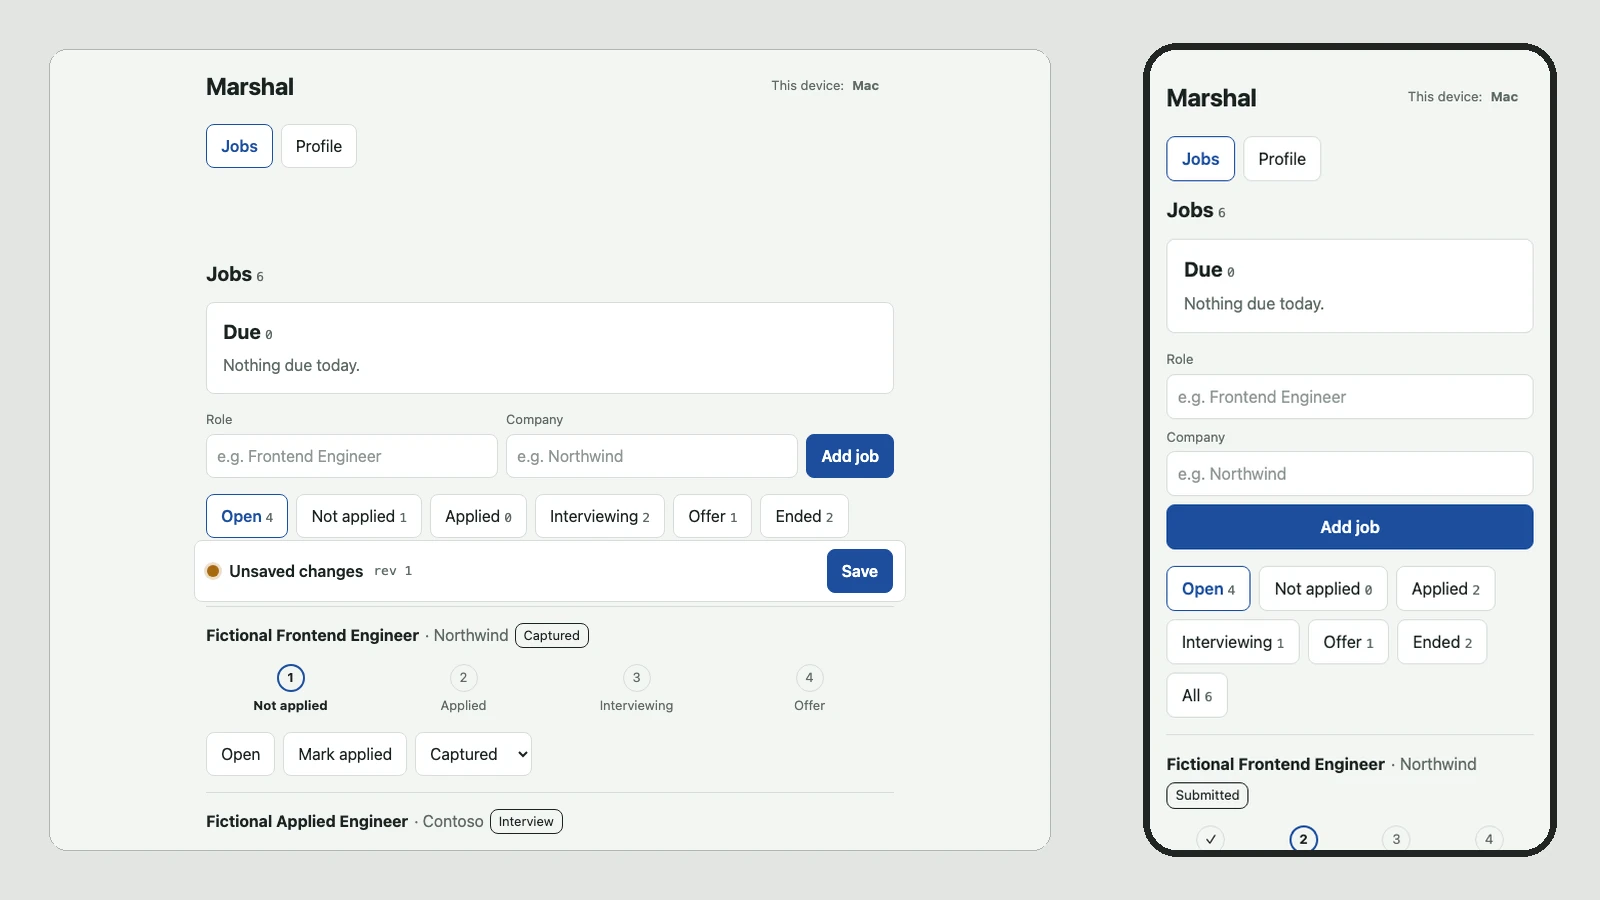
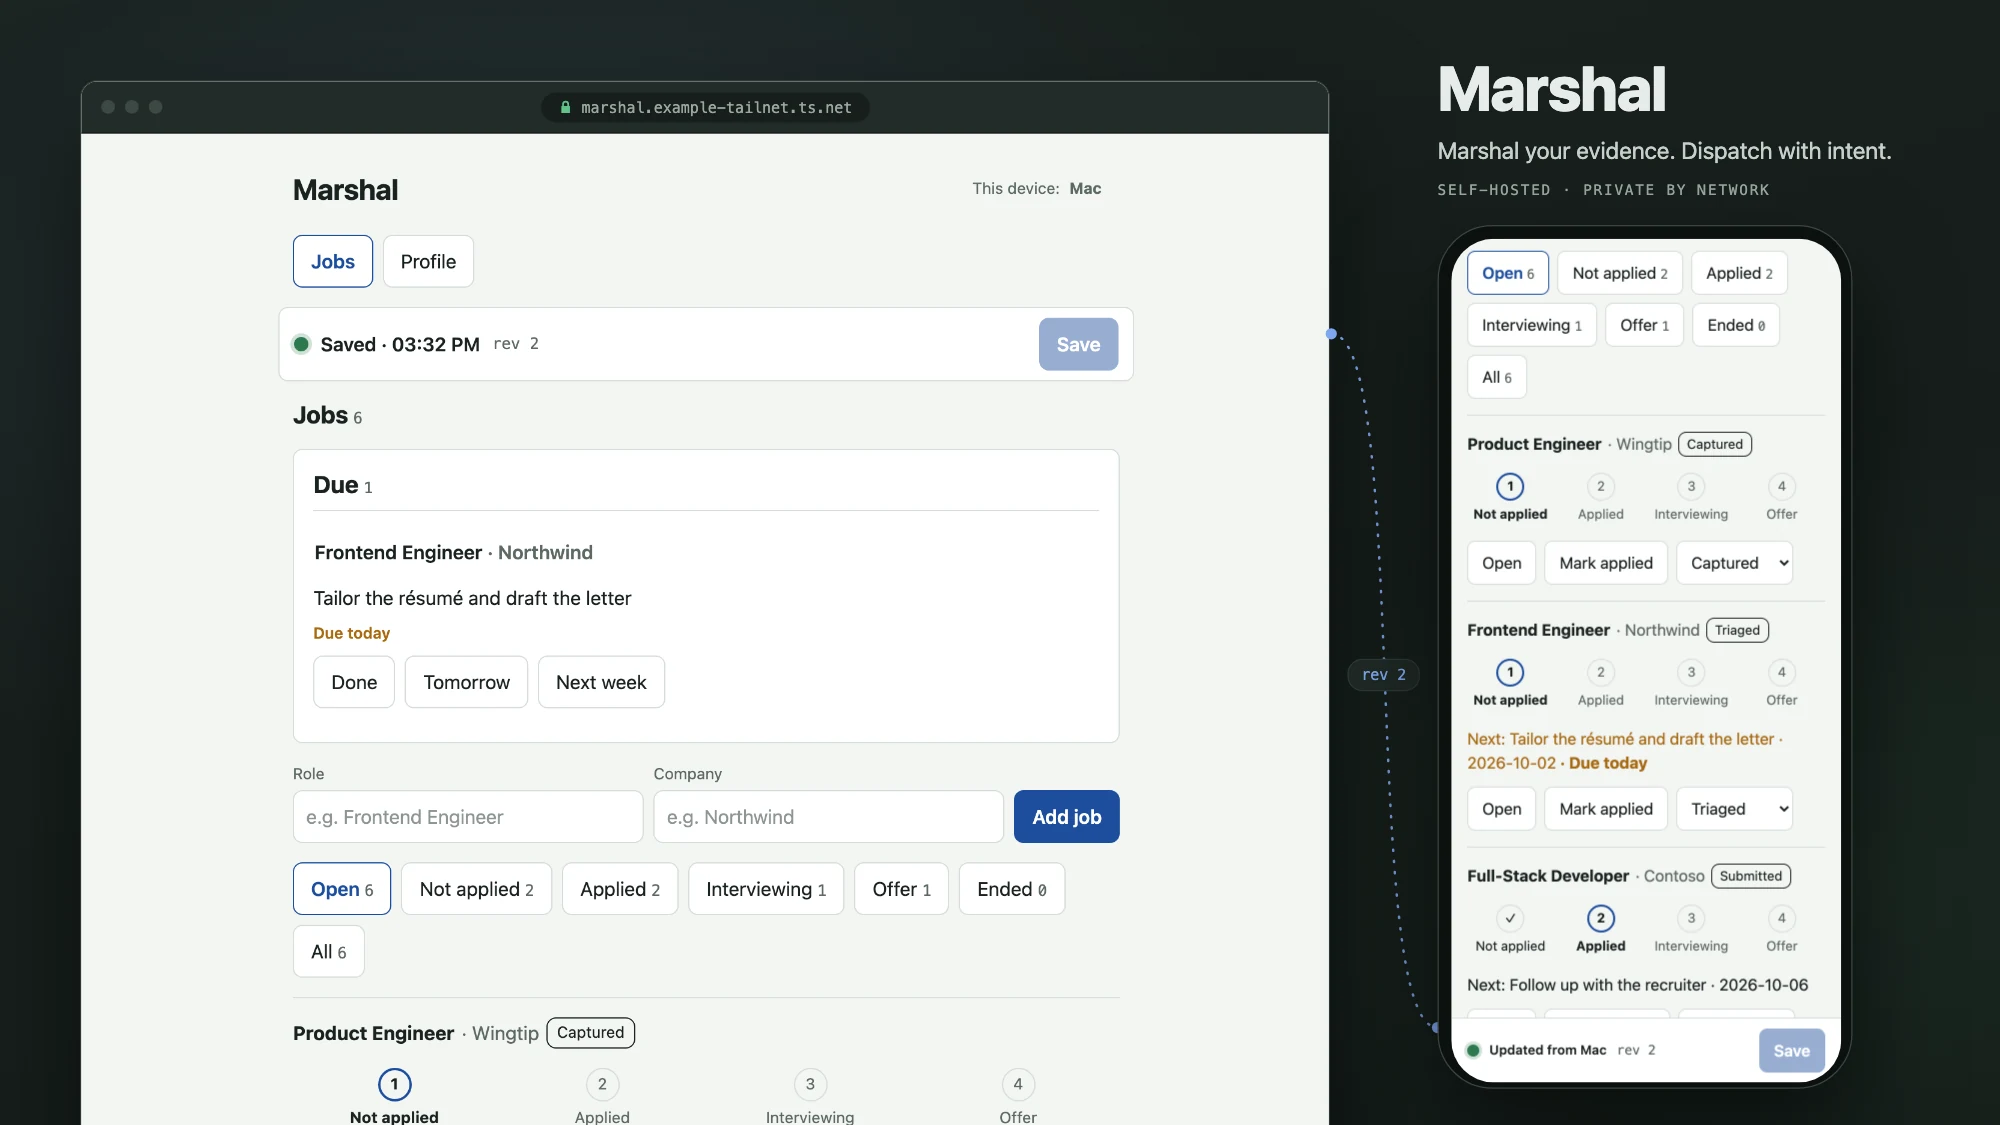
feat(work): replace the Marshal cover with a framed product image
The cover now sets fresh desktop and phone captures of a throwaway
instance with fictional jobs inside drawn device frames, on the app's own
dark palette. The phone shows the revision the desktop had just saved.
The case study and evidence note say which parts are real captures and
which are composition.

diff --git a/src/constants/caseStudies.js b/src/constants/caseStudies.js
@@ -298,7 +298,7 @@ export const MARSHAL_CASE_STUDY = {
       paragraphs: [
         "GitHub Actions runs four checks on every push: type checking, 220 unit and contract tests, the browser journeys on phone and desktop viewports, and a container build that renders a multilingual PDF and inspects its page count, page size and embedded fonts. A fifth job scans the full history for secrets. The run for the pipeline release on 2 October 2026 passed.",
         "The roadmap records 58 browser journeys passing at that release, including a phone-sized run from capture to both PDF downloads. The journeys use a stubbed model, and no test calls a paid model.",
-        "The image on this site is composed from two captures saved by those browser journeys, one desktop and one phone. Every role and company in it is fictional test data.",
+        "The image on this site sets two captures of a throwaway local instance, one desktop and one phone, inside drawn device frames; the phone shows the revision the desktop had just saved. Every role and company in it is fictional test data.",
       ],
     },
     {

diff --git a/docs/MARSHAL_CASE_STUDY_EVIDENCE.md b/docs/MARSHAL_CASE_STUDY_EVIDENCE.md
@@ -52,13 +52,26 @@ Paths below refer to the source repository at that commit.
 
 ## Screenshot
 
-`src/assets/projects/marshal.webp` is composed from two captures written by the
-source repository's browser journeys into its git-ignored `out/e2e/` directory:
-`desktop-pipeline-board.png` (cropped) and `phone-pipeline-applied.png` (top of
-the capture, scaled). They are placed side by side on a plain background with a
-border; no interface element was drawn or edited. All roles and companies in
-the captures are the journeys' fictional fixtures. The homepage caption and the
-case study both disclose this.
+`src/assets/projects/marshal.webp` (2000 × 1125) was regenerated on 2 October
+2026 to read as a product cover rather than a test capture.
+
+- **Screens are real.** A throwaway instance was started from the source at
+  `5230d26` with a temporary data directory and the committed web build. Five
+  fictional jobs were seeded through `PUT /api/user-state`; a sixth was added
+  in the desktop browser and saved, producing revision 2. A phone-sized context
+  then loaded that revision and was scrolled to the job list. Both were captured
+  with Playwright at 2× (desktop 1040 px wide, full page; phone 390 × 844). The
+  desktop bar reads "Saved · rev 2" and the phone bar "Updated from Mac · rev 2"
+  because that is the state the app was in. No interface pixel was edited, and
+  the temporary data directory was deleted afterwards.
+- **Frames are drawn.** The browser chrome, its `marshal.example-tailnet.ts.net`
+  address, the phone bezel, the dotted connector with its "rev 2" label, the
+  wordmark, the tagline (from the source README) and the backdrop are
+  composition, not product UI. Colours come from the app's own tokens in
+  `web/src/styles.css`.
+- **Data is fictional.** Roles and companies (Northwind, Contoso, Fabrikam,
+  Tailspin, Adventure Works, Wingtip) are placeholders. The homepage caption and
+  the case study both say so.
 
 ## Not claimed
 
